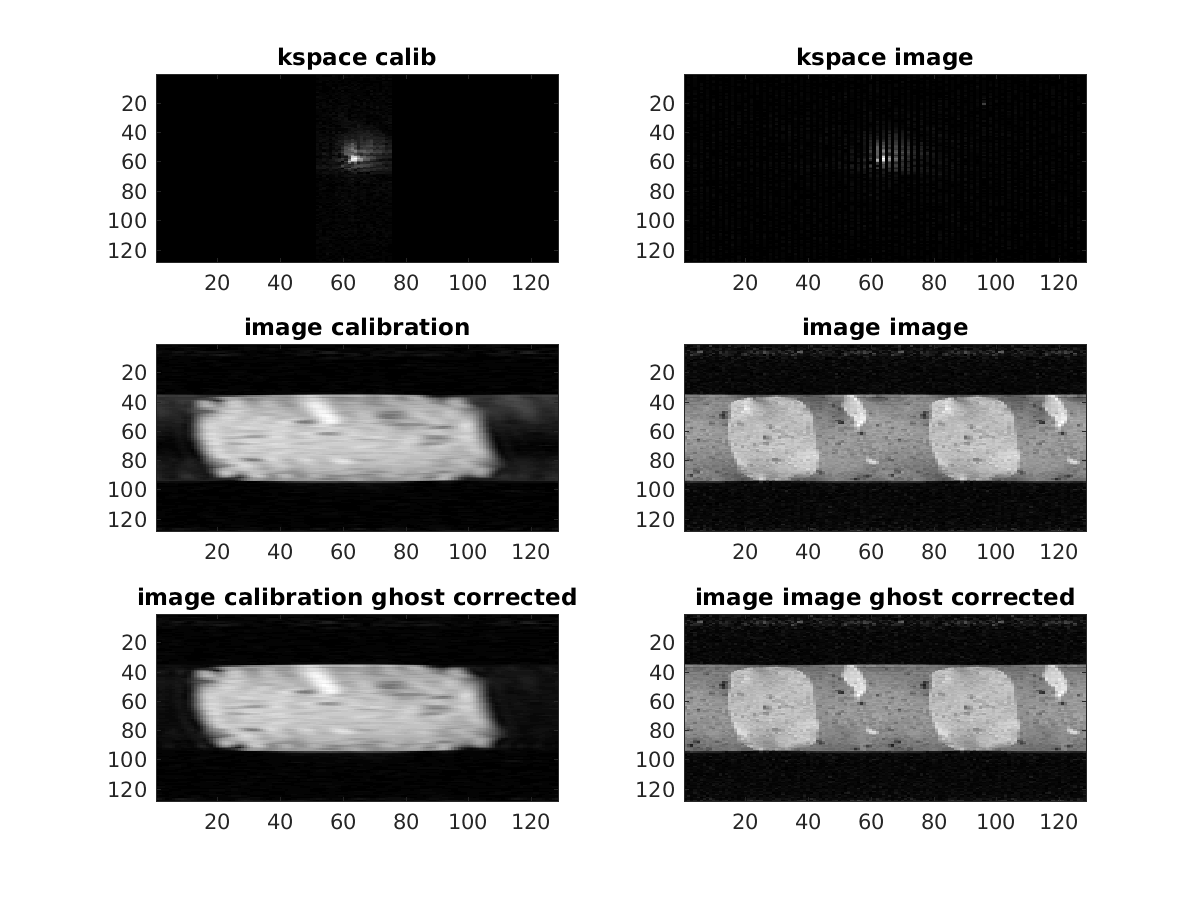
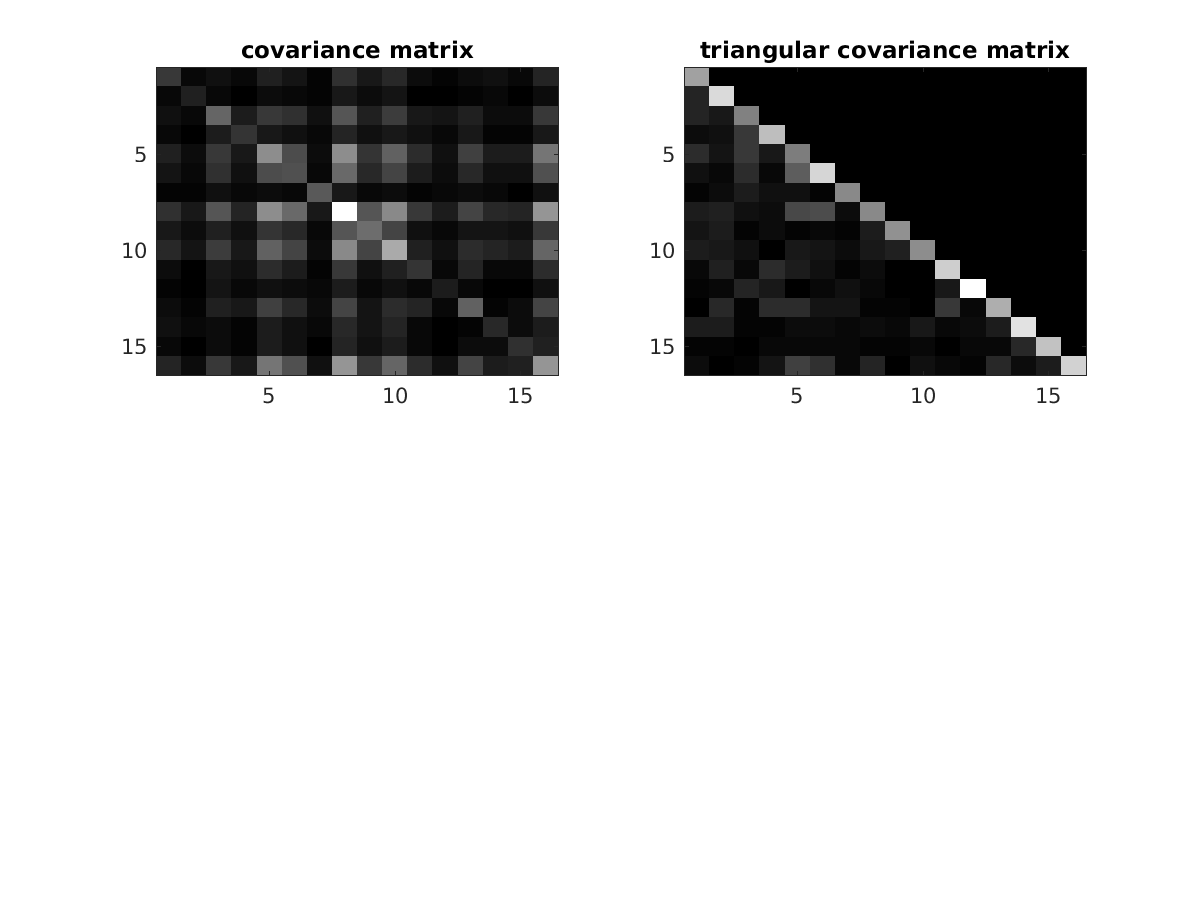
third commit

diff --git a/main.m b/main.m
@@ -49,8 +49,6 @@
 % calibration scan (24 lines using % Grappa 2 ) after ghost correction   
 
 
-
-
 clear all
 
 % download the ismrm_sunrise_matlab-master https://github.com/hansenms/ismrm_sunrise_matlab
@@ -64,19 +62,22 @@ addpath('/home/valery/Reseau/Valery/MatlabUnix/ismrm_sunrise_matlab-master/');
 
 % download the data and change the link below
 
-% fully sample dataset
-% available from the gadgetron in test integration using the python script
-% get data.py 
-% filename = '/home/valery/DICOM/FID/meas_MID517_nih_ep2d_bold_fa60_FID82077.h5';
-% filename_noise = '/home/valery/DICOM/FID/meas_MID517_nih_ep2d_bold_fa60_NOISE82077.h5';
-% figure_folder='figures_full_sampling/'; 
+fully_sampled='N';
 
-
-% undersampled dataset with grappa 2
-% from my ftp server or send me an email
-filename = '/home/valery/Reseau/Imagerie/DICOM_DATA/2017-01-15_SMS/FID/00085_epi_RF_1dyn_GRAPPA2_FID10853.h5'
-filename_noise = '/home/valery/Reseau/Imagerie/DICOM_DATA/2017-01-15_SMS/FID/00085_epi_RF_1dyn_GRAPPA2_NOISEFID10853.h5';
-figure_folder='figures_grappa_sampling/';  
+if (strcmp(fully_sampled,'Y'))
+    filename = '/home/valery/DICOM/FID/meas_MID517_nih_ep2d_bold_fa60_FID82077.h5';
+    filename_noise = '/home/valery/DICOM/FID/meas_MID517_nih_ep2d_bold_fa60_NOISE82077.h5';
+    figure_folder='figures_full_sampling/';
+    % fully sample dataset
+    % available from the gadgetron in test integration using the python script
+    % get data.py
+else
+    filename = '/home/valery/Reseau/Imagerie/DICOM_DATA/2017-01-15_SMS/FID/00085_epi_RF_1dyn_GRAPPA2_FID10853.h5'
+    filename_noise = '/home/valery/Reseau/Imagerie/DICOM_DATA/2017-01-15_SMS/FID/00085_epi_RF_1dyn_GRAPPA2_NOISEFID10853.h5';
+    figure_folder='figures_grappa_sampling/';
+    % undersampled dataset with grappa 2
+    % from my ftp server or send me an email
+end
 
 mkdir(figure_folder) 
 
@@ -192,7 +193,7 @@ end
 
 
 figure(2)
-subplot(1,2,2);imagesc(abs(triangular_covariance_matrix(:,:))); colormap(gray); title('triangular covariance matrix');
+subplot(2,2,2);imagesc(abs(triangular_covariance_matrix(:,:))); colormap(gray); title('triangular covariance matrix');
 if (size(acq_noise_measurement,2)>0)
 subplot(2,2,1);imagesc(abs(dmtxTotalNormalize(:,:)));   title('covariance matrix');
 end

diff --git a/README.md b/README.md
@@ -3,7 +3,7 @@ Matlab/Ismrmrd script for single-shot EPI reconstruction
 
 ## Purpose
 
-This is a simple example of how to reconstruct a single-shot EPI images from data  acquired on a fully sampled cartesian grid. The code is really similar to theses gadgets (sometimes it purely of c++-> matlab conversion):
+This is a simple example of how to reconstruct a single-shot EPI images from data. The code is really similar to theses gadgets (sometimes it purely of c++-> matlab conversion):
 
 * NoiseAdjustGadget.cpp NoiseAdjustGadget.h
 * EPIReconXGadget.cpp EPIReconXGadget.h
@@ -71,7 +71,10 @@ Finally reconstruction is done for slice 1=1 , contrast =1, average =1, generali
 * calibration scan (24 lines using % Grappa 2 ) after ghost correction  
 * etc
 
+## Figure undersampled dataset
 
+![Figure 2](https://github.com/valeryozenne/EchoPlanarReco/blob/master/figures_grappa_sampling/figure2.png)
 
+![Figure 3](https://github.com/valeryozenne/EchoPlanarReco/blob/master/figures_grappa_sampling/figure3.png)
 
-
+![Figure 4](https://github.com/valeryozenne/EchoPlanarReco/blob/master/figures_grappa_sampling/figure4.png)
